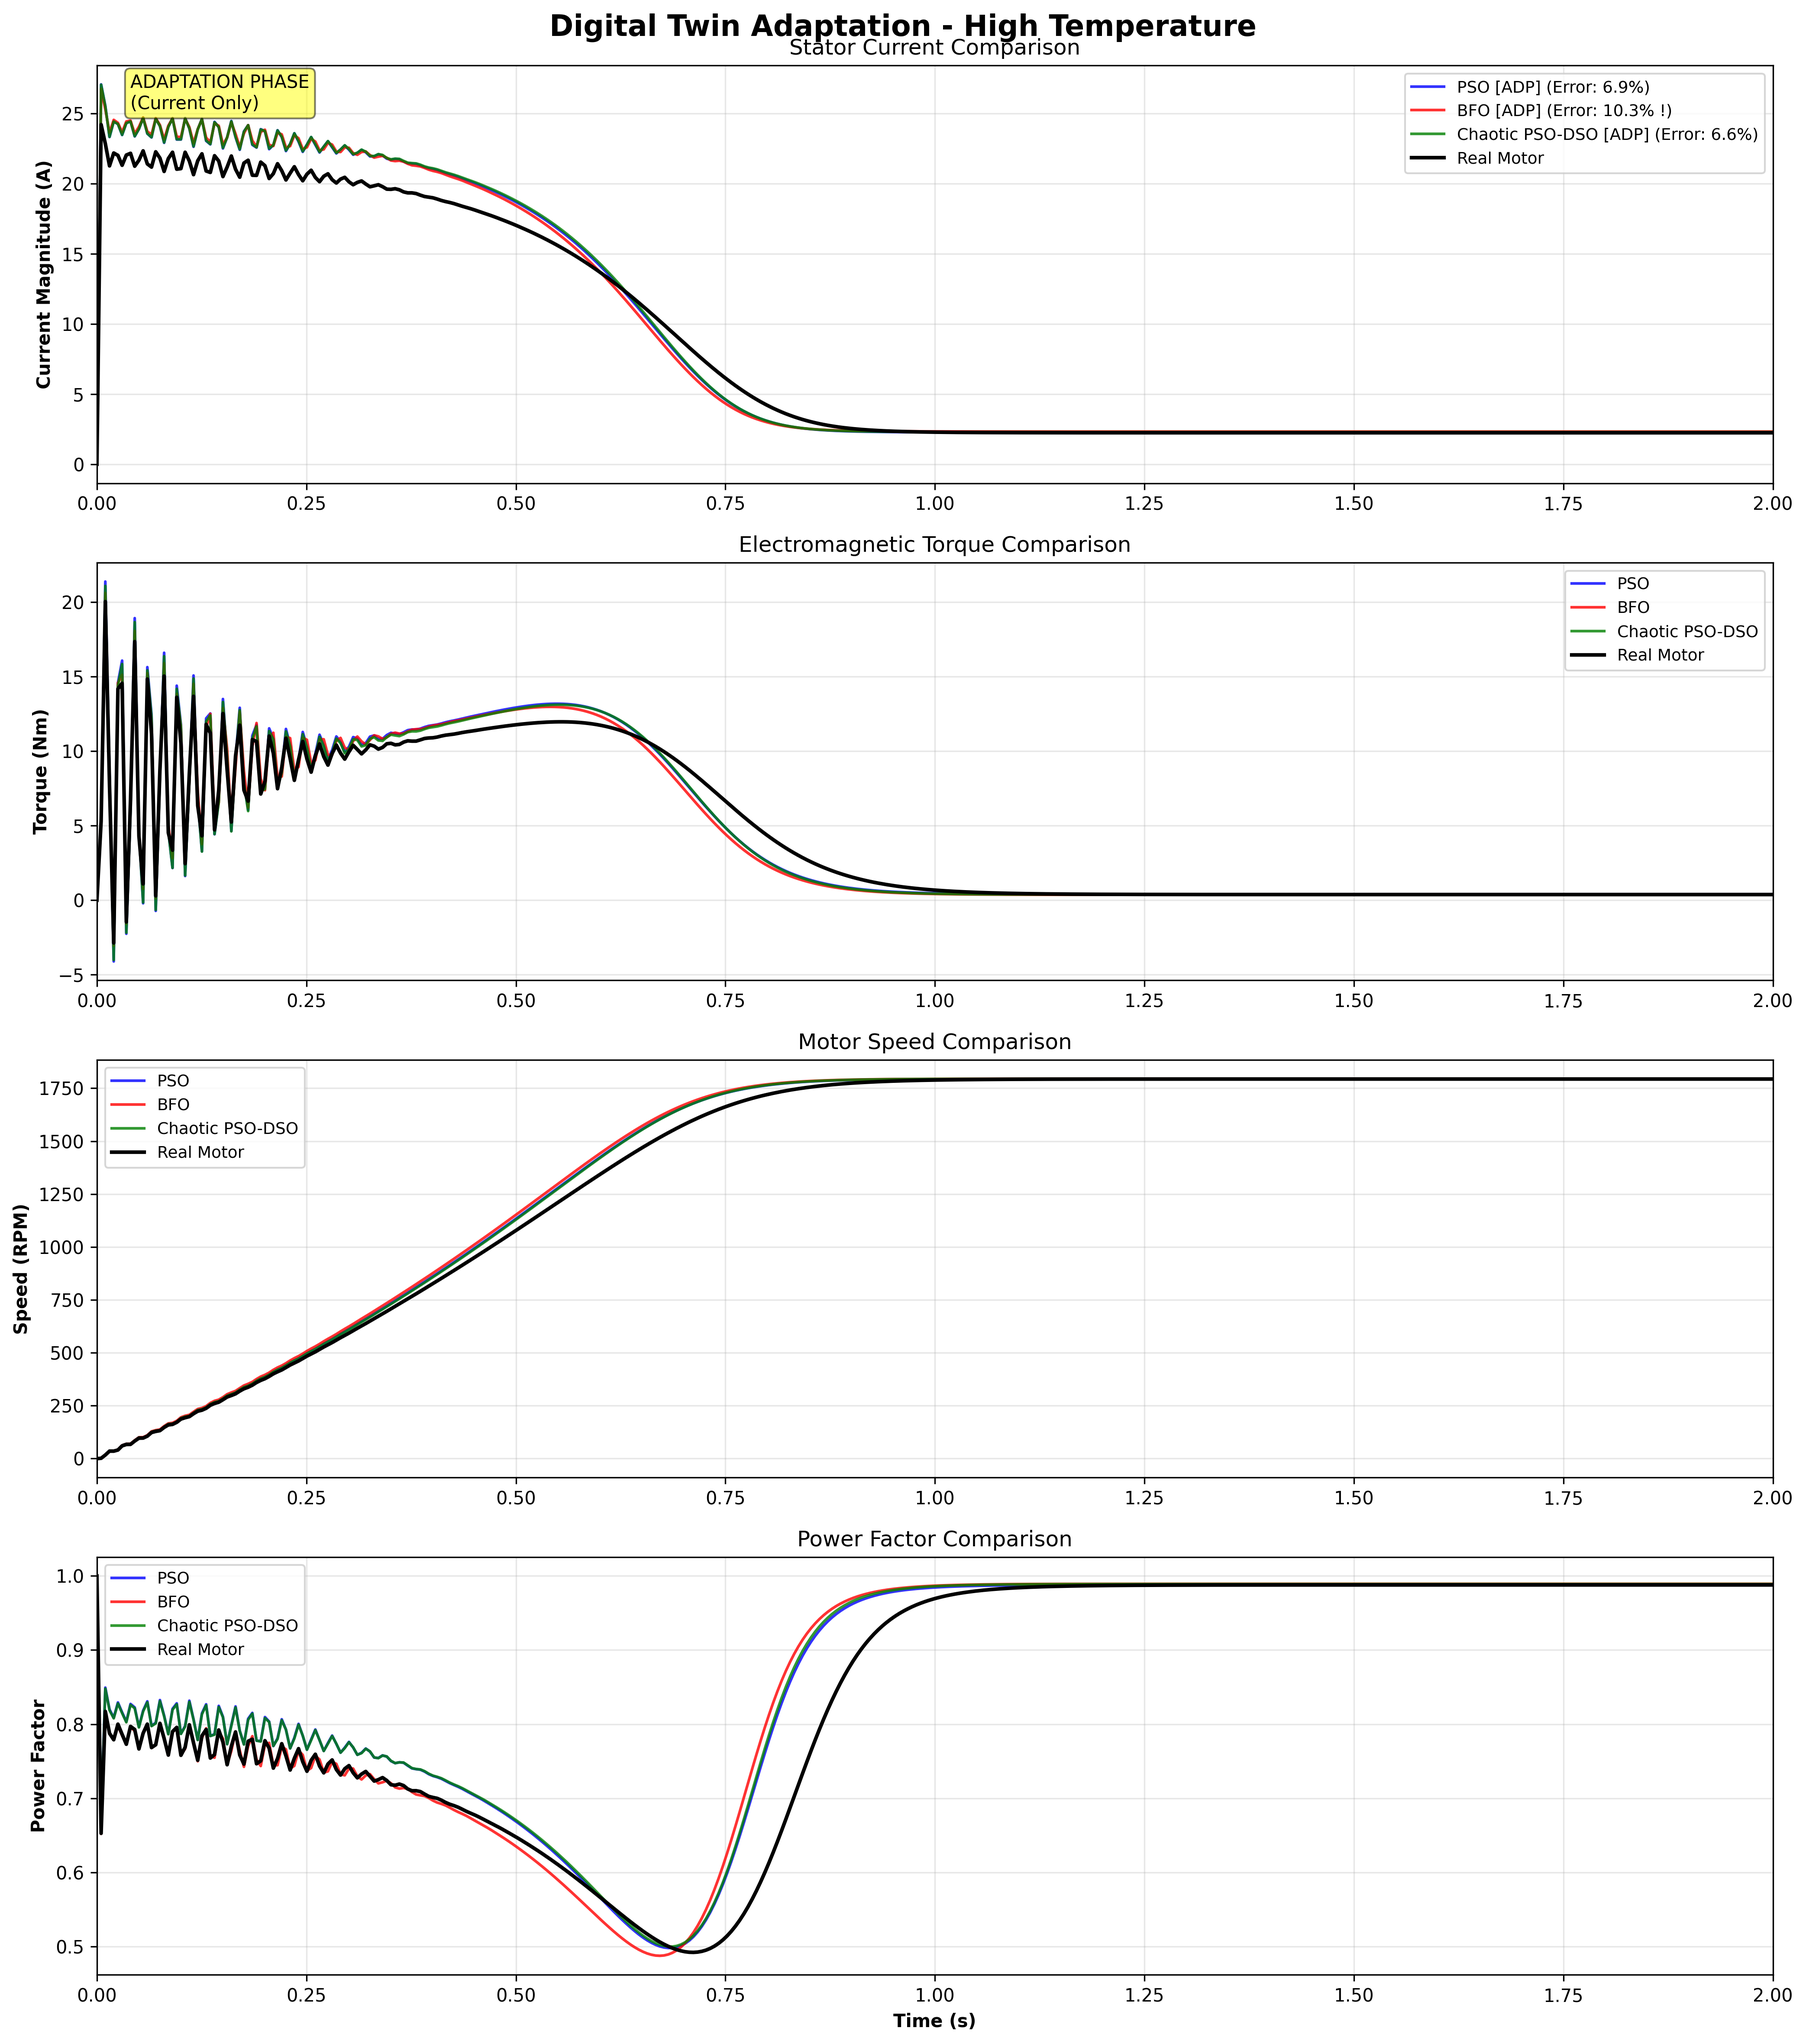
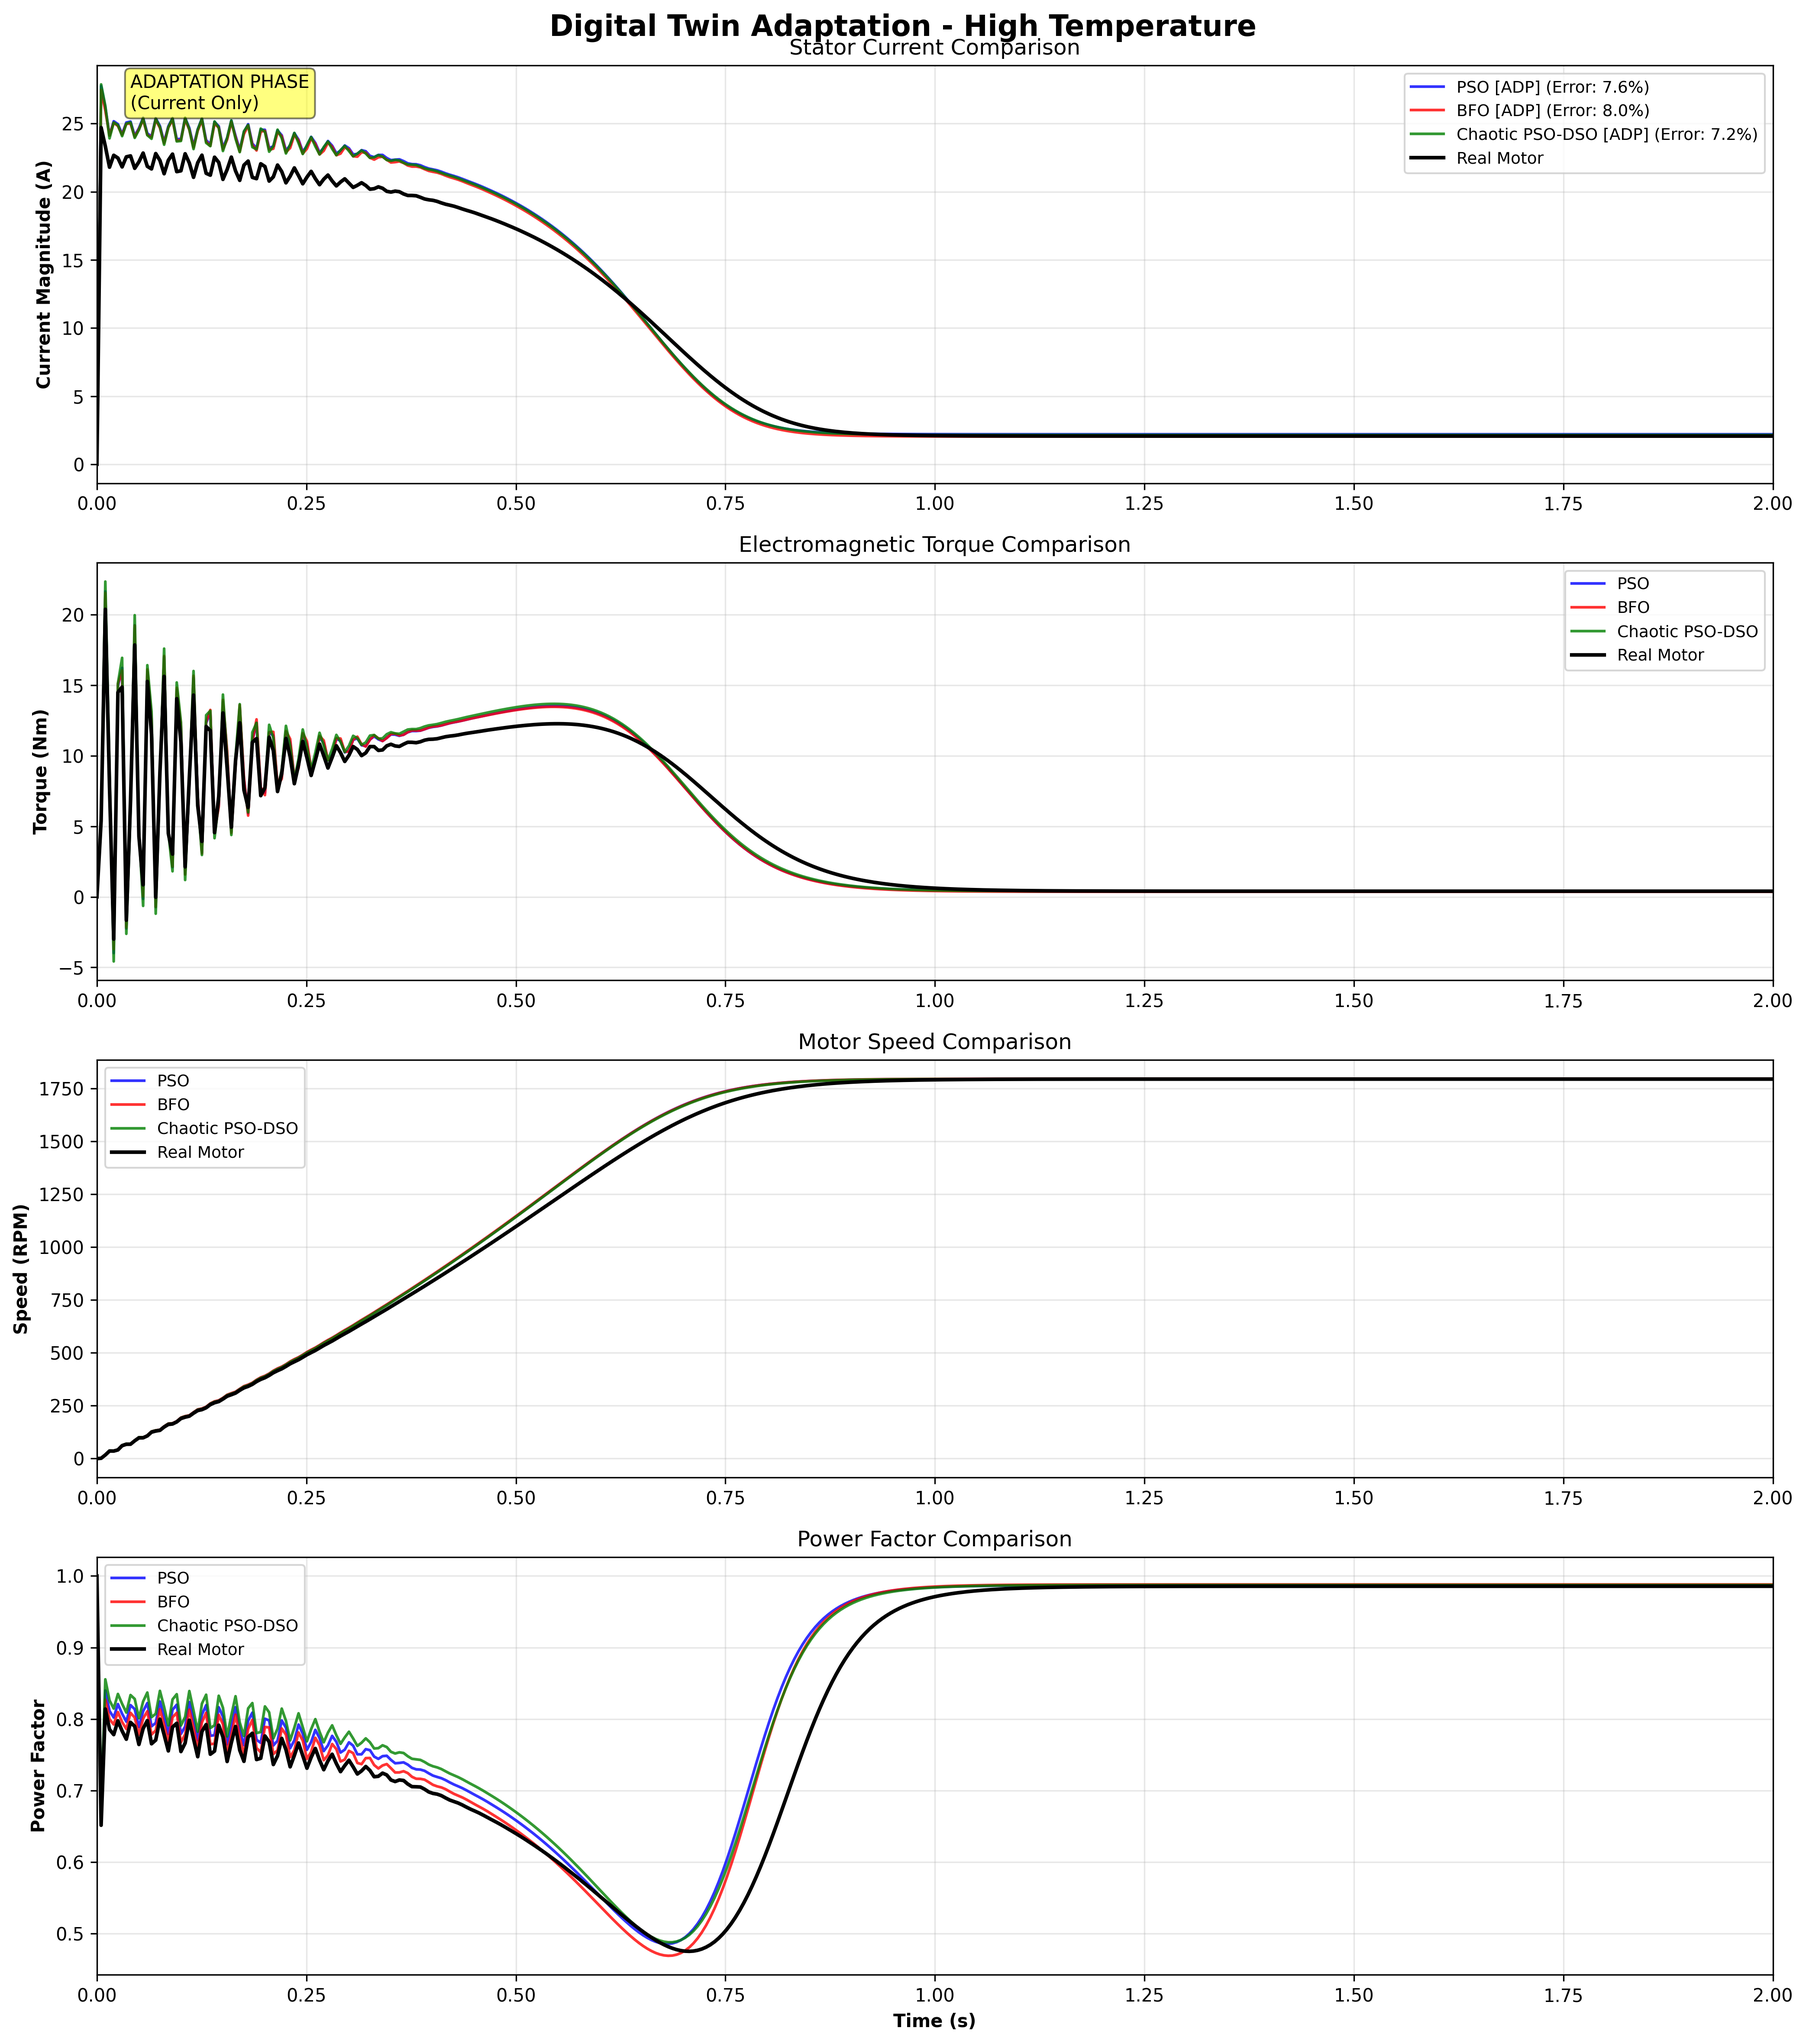
Update adaptive test and results for CIMCIA digital twin
- Refactor digial_twin_test.py for improved configuration
- Update adaptive results CSVs for BFO, PSO, and Chaotic PSO-DSO
- Refresh performance analysis and twin state plots (High Temperature, Normal Operation, Severe Conditions)

diff --git a/TESIS/Congreso/CIMCIA/Final/Test_13082025_confg_optimizada/digial_twin_test.py b/TESIS/Congreso/CIMCIA/Final/Test_13082025_confg_optimizada/digial_twin_test.py
@@ -1441,7 +1441,7 @@ def run_adaptive_digital_twin_study():
     # Execute adaptive study
     print("\nPhase 1: Initial Calibration (Normal Operation)...")
     print("Phase 2: Field Adaptation (High Temperature & Severe Conditions)...")
-    results = twin_system.run_adaptive_study(n_runs=5)  # Increase to 10-15 for paper
+    results = twin_system.run_adaptive_study(n_runs=10)  # Increase to 10-15 for paper
     
     # Generate motor comparison plots
     print("\nGenerating Motor Performance Comparison Plots...")
